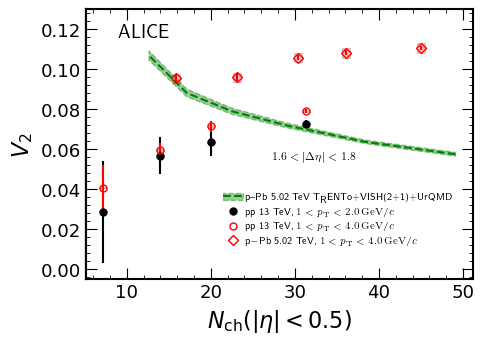
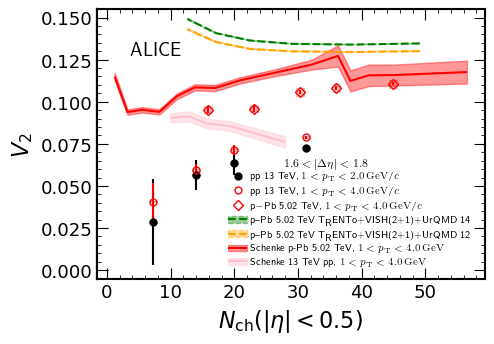
Add more calculations

diff --git a/Fig6_vn_allSystems_comp.py b/Fig6_vn_allSystems_comp.py
@@ -6,8 +6,8 @@ import scipy
 from scipy import interpolate
 
 import sys
+import pickle
 sys.path.append("JPyPlotRatio");
-
 
 import JPyPlotRatio
 
@@ -105,14 +105,19 @@ for s,color in [
 	("12","orange")]:
 	fh = ROOT.TFile("data/results_dual_MAP_502_pPb_pT{}.root".format(s),"read")
 	gr = fh.Get("gr_v2_QC");
-	# Adding hydro calculations
 	pPb_hydro_mult = np.array([171.9,54.1,44.1,32.8,25.4,19.6,14.7,10.6]);
 	pPb_hydro_mult_avg = 0.5*(pPb_hydro_mult[:-1]+pPb_hydro_mult[1:])
 	_,y,_,yerr = JPyPlotRatio.TGraphErrorsToNumpy(gr);
-	#plot.Add(0,(pPb_hydro_mult_avg[1:],y[1:],yerr[1:]),linecolor="green",linestyle="--",color="green",plotType="theory",alpha=0.4,label="{T\\raisebox{-.5ex}{R}ENTo}+VISH(2+1)+UrQMD");
 	plot.Add(0,(pPb_hydro_mult_avg[1:],y[1:],yerr[1:]),linecolor=color,linestyle="--",color=color,plotType="theory",alpha=0.4,label="p--Pb 5.02 TeV {T\\raisebox{-.5ex}{R}ENTo}+VISH(2+1)+UrQMD"+" {}".format(s),labelOrder=1);
 	fh.Close();
 
+with open("data/schenke_SmallSystem.pkl","rb") as f:
+	schenkeDict = pickle.load(f);
+for s,label,color in [
+	(('pPb5020','v2','1_4'),"Schenke p-Pb 5.02 TeV, $1<p_\\mathrm{T}<4.0\\,\\mathrm{GeV}$","red"),
+	(('pp13TeV','v2','1_4'),"Schenke 13 TeV pp, $1<p_\\mathrm{T}<4.0\\,\\mathrm{GeV}$","pink")]:
+	d = schenkeDict[s];
+	plot.Add(0,(d["mult"],d["y"],d["yerr"]),plotType="theory",linecolor=color,color=color,alpha=0.4,label=label,labelOrder=2);
 
 plotMatrix = np.empty((nrow,ncol),dtype=int);
 
